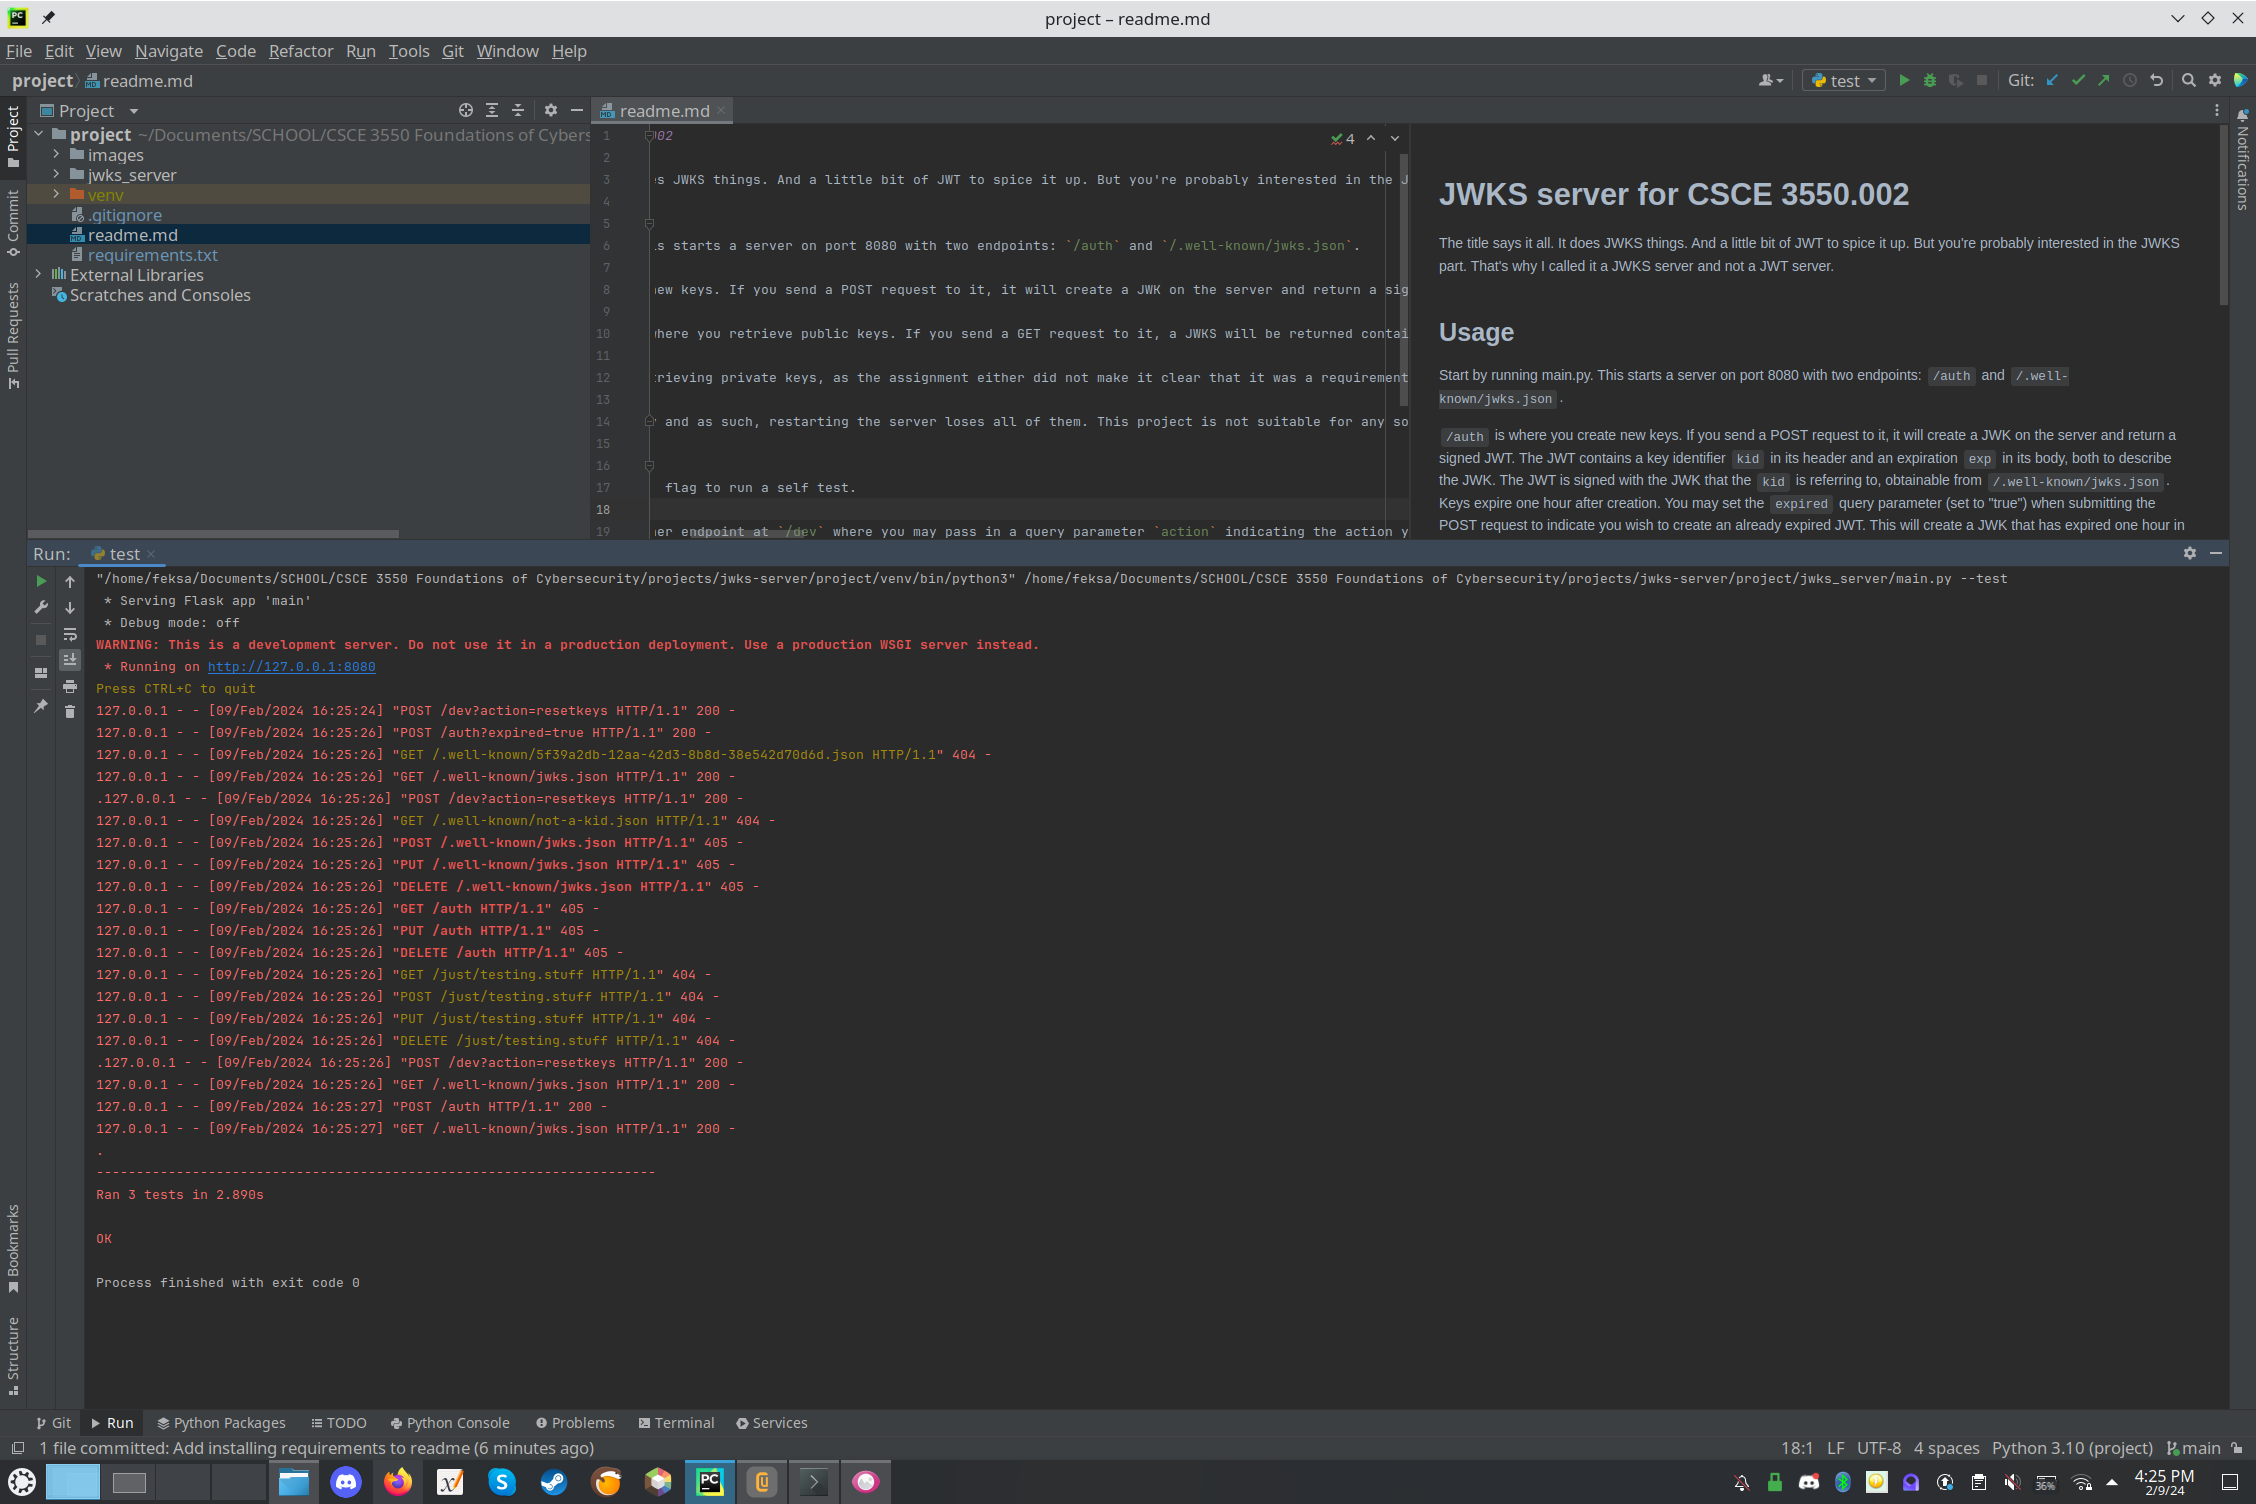
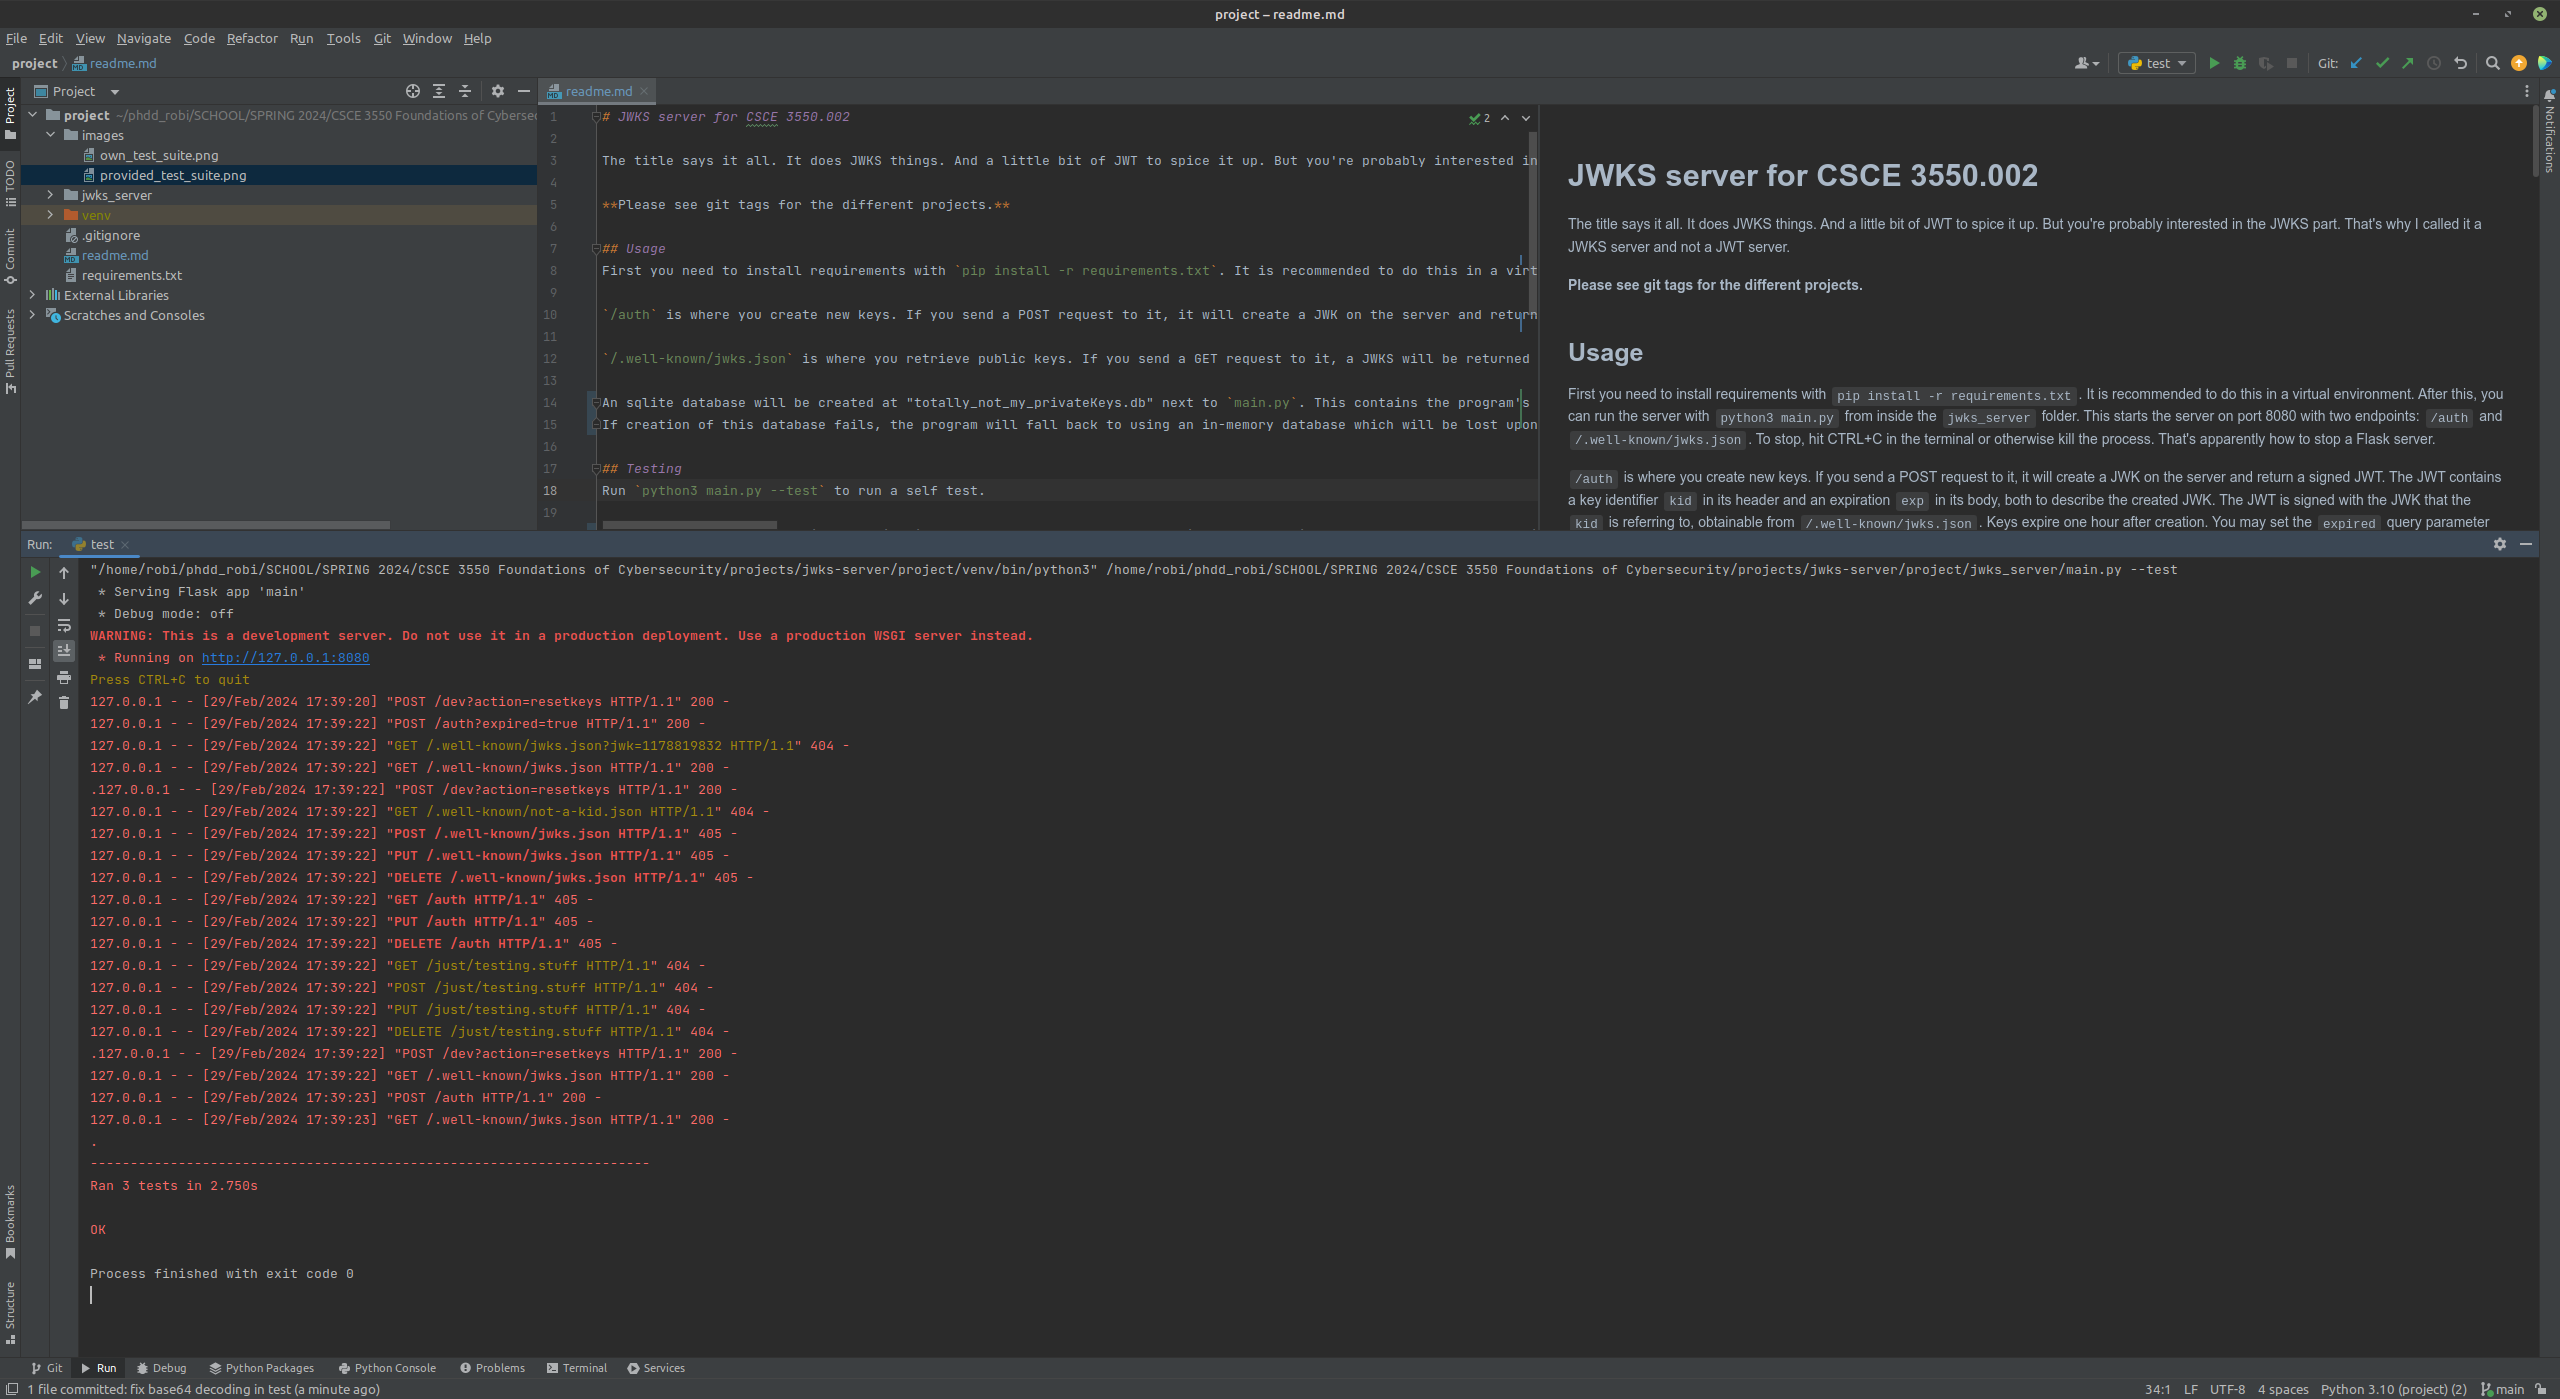
Update README and images

diff --git a/readme.md b/readme.md
@@ -11,18 +11,24 @@ First you need to install requirements with `pip install -r requirements.txt`. I
 
 `/.well-known/jwks.json` is where you retrieve public keys. If you send a GET request to it, a JWKS will be returned containing all keys on the server. If you include a query parameter 'kid' like so: `/.well-known/jwks.json?kid=96240`, then a JWKS only containing the requested key will be returned. If the key is not found (or is expired), a 404 status code will be returned.
 
-There is no mechanism for retrieving private keys, as the assignment either did not make it clear that it was a requirement or it was simply not necessary.
-
-All keys are stored in memory and as such, restarting the server loses all of them. This project is not suitable for any sort of production use, and is even questionably suitable for submission as an assignment.
+An sqlite database will be created at "totally_not_my_privateKeys.db" next to `main.py`. This contains the program's keys in a table called "keys" with columns `kid` (int), `key` (blob (text)), and `exp` (int). They are the kid, PEM format private key, and expiration date respectively.
+If creation of this database fails, the program will fall back to using an in-memory database which will be lost upon program exit.
 
 ## Testing
 Run `python3 main.py --test` to run a self test.
 
-During testing it opens another endpoint at `/dev` where you may pass in a query parameter `action` indicating the action you wish to take (the only choice is "resetkeys" which deletes and recreates the internal key store).
+**DO NOT run a self-test with anything important named "totally_not_my_privateKeys.db" in the same folder as the script; it may get deleted.**
+
+During testing it opens another endpoint at `/dev` where you may pass in a query parameter `action` indicating the action you wish to take (the only choice is "resetkeys" which deletes and recreates the key database).
 
 If all tests succeed, it will print "OK" at the end. If they do not succeed, I will probably cry.
 
 You may define further parameters alongside `--test` which get passed to unittest. You can find the whole list of options [here](https://docs.python.org/3/library/unittest.html#command-line-options), although they don't seem very useful.
+
+## Other parameters
+You may start the program with `python3 main.py --recreate_db` which will attempt to delete and recreate the database during launch.
+
+**DO NOT use this parameter with anything important named "totally_not_my_privateKeys.db" in the same folder as the script; it may get deleted.**
 
 ## Images
 ![Software running against provided test suite](images/provided_test_suite.png "Running against the provided test suite")
